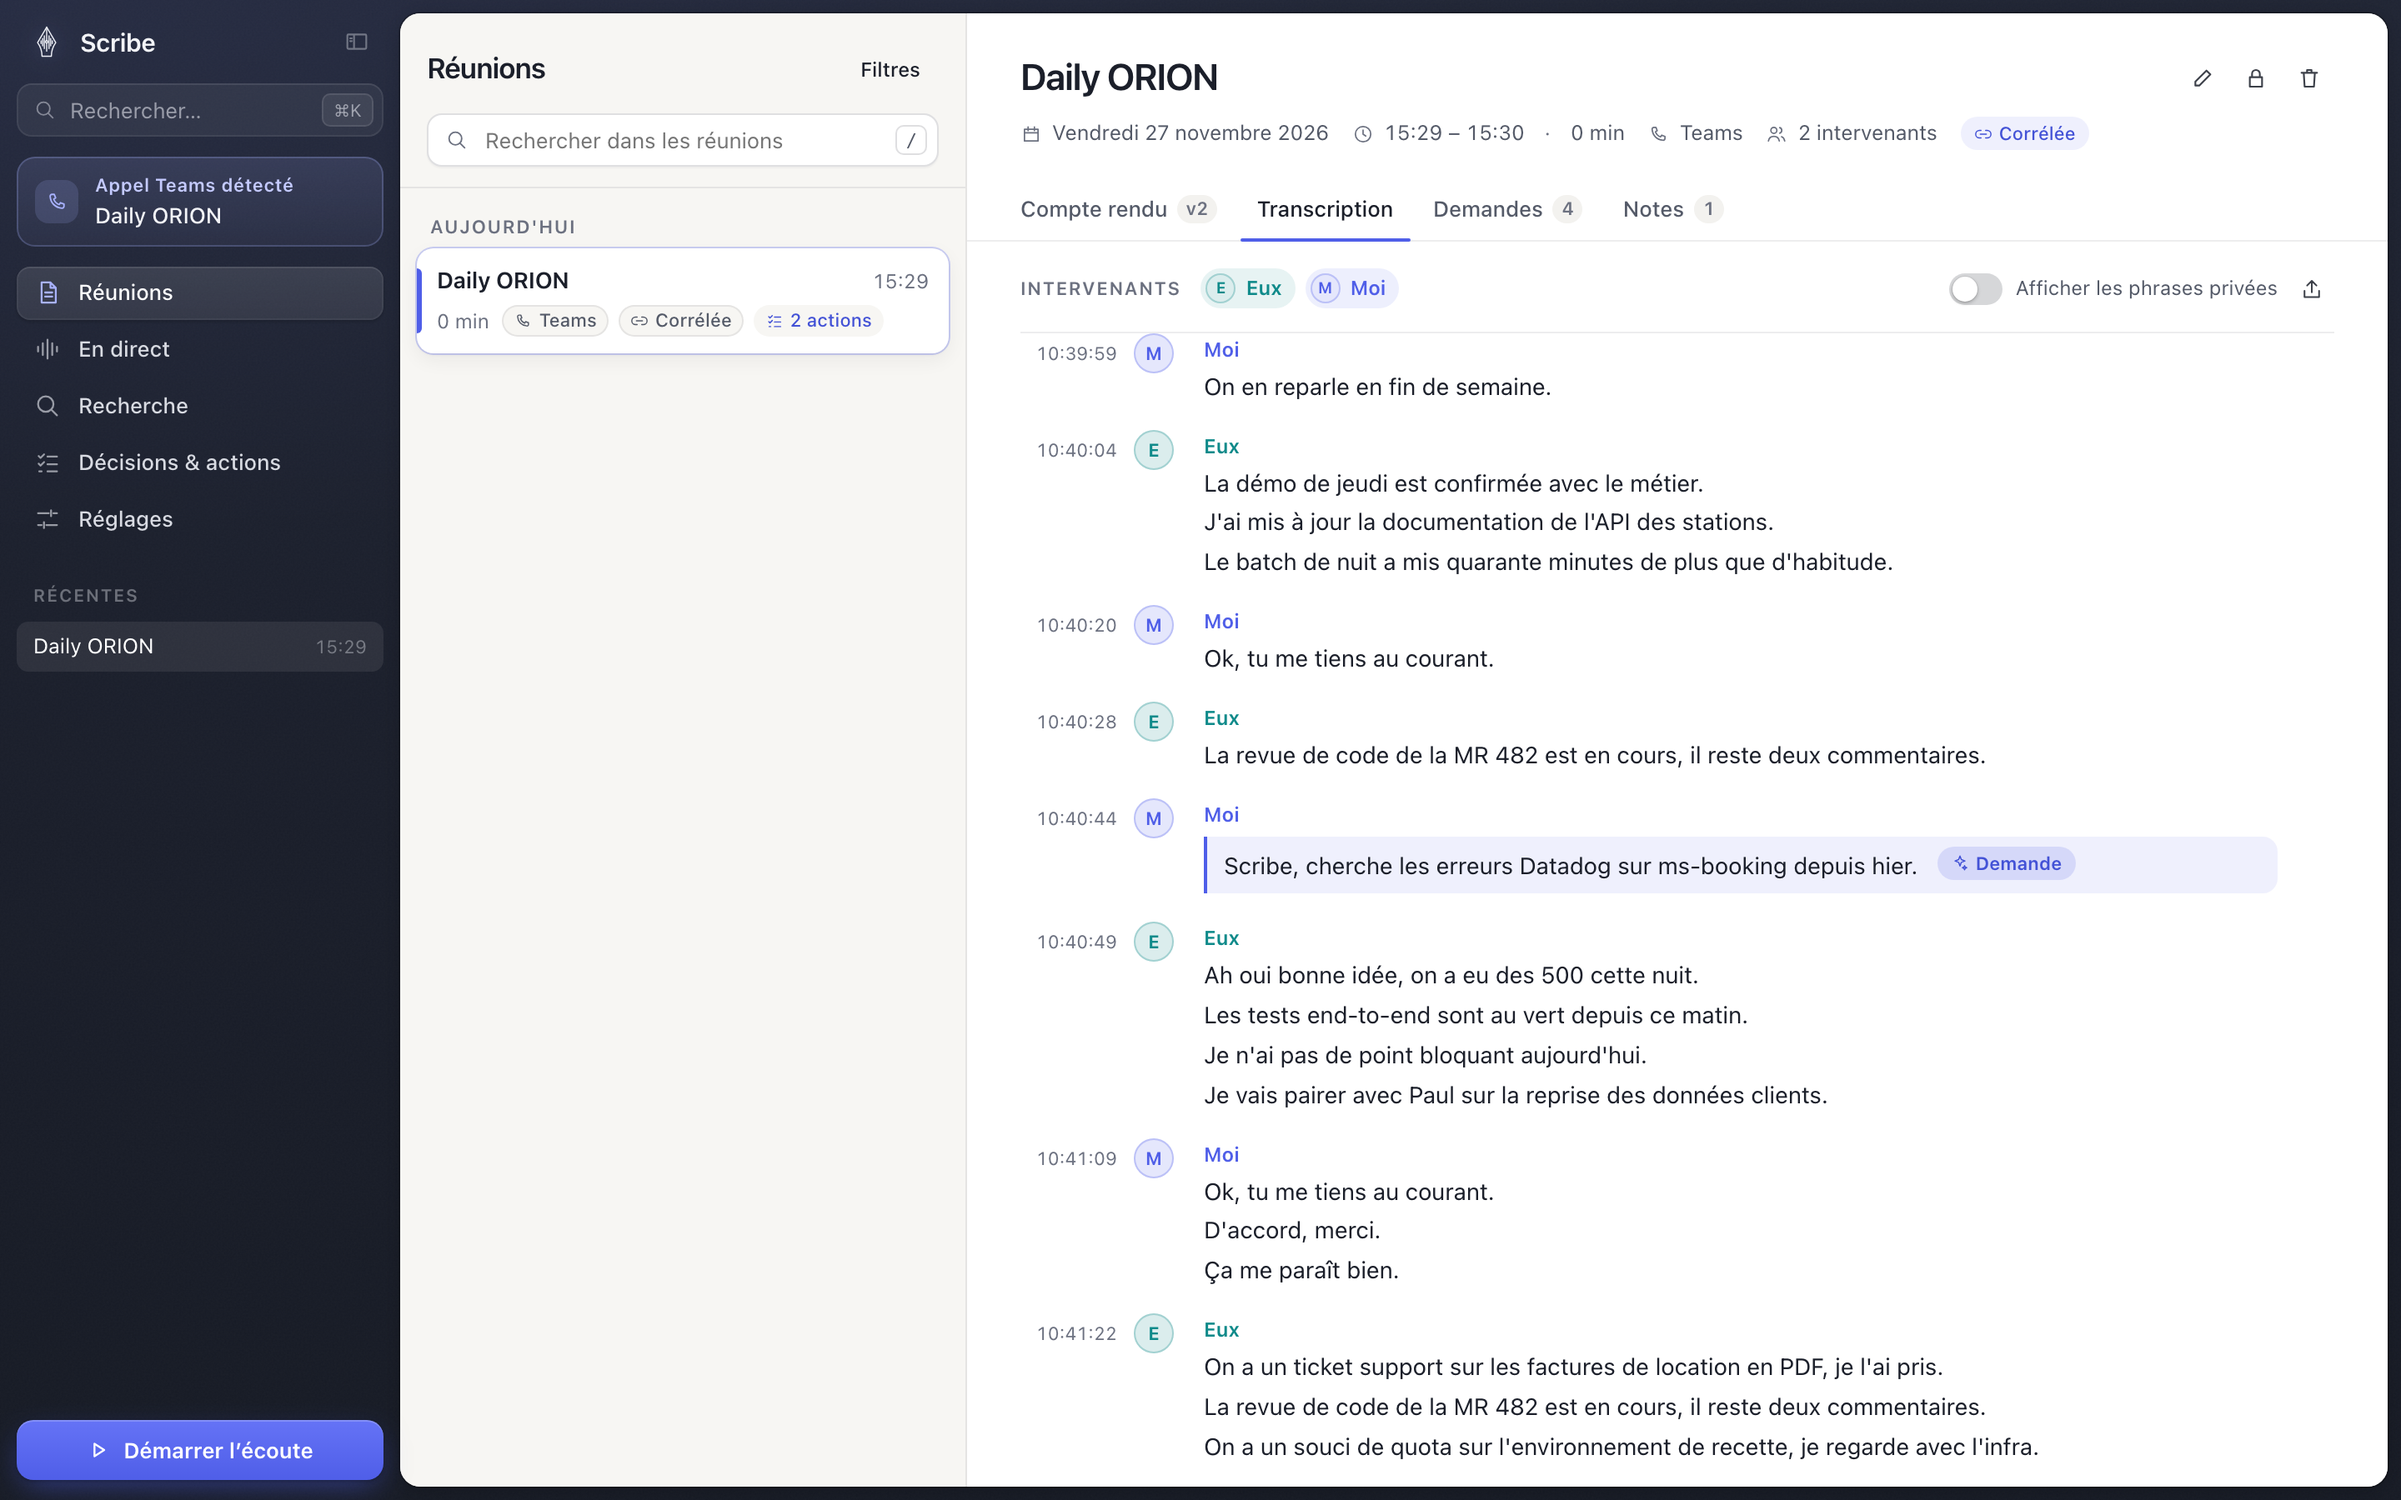
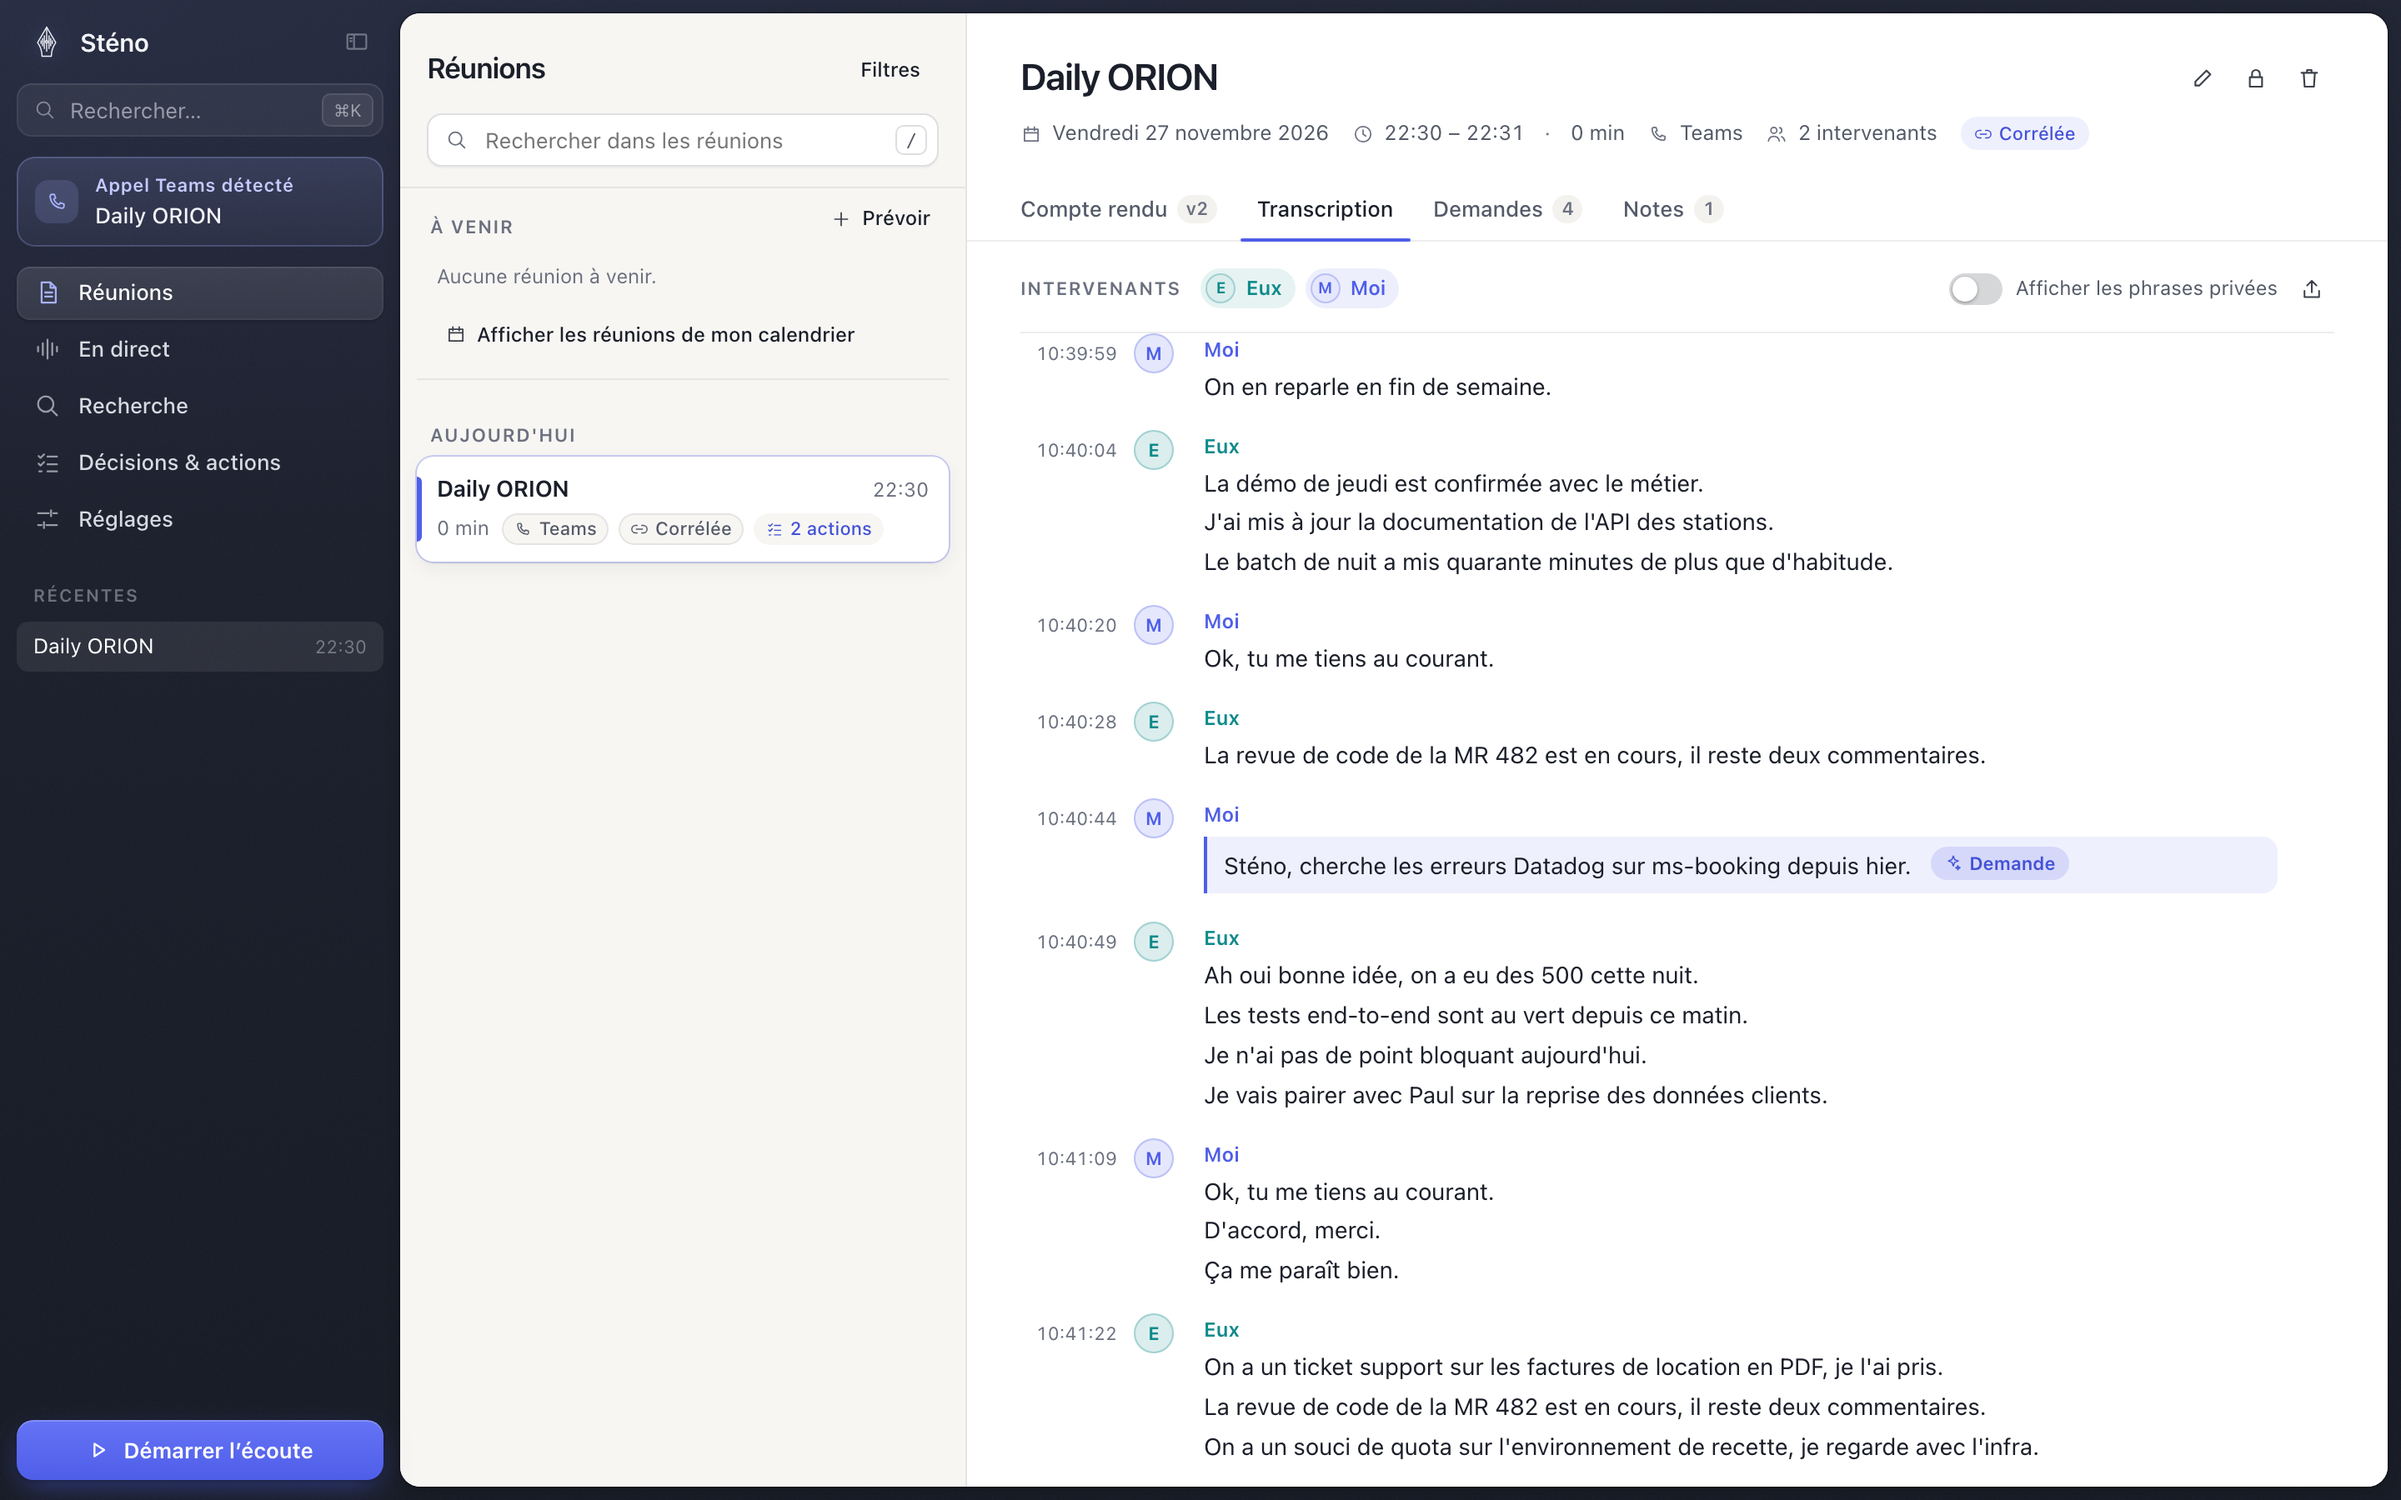
Regenerate screenshots with the Sténo name
The documentation screenshots still showed the former app name. The
voice settings capture waited for rejected variants, which the new wake
word does not produce: wait for the generation answer instead and keep
the wake word field in view.

Changed region(s): [[0.5312, 0.56, 0.875, 0.5911], [0.1562, 0.1244, 0.3438, 0.2489], [0.1562, 0.28, 0.25, 0.3422]]

diff --git a/app/ui/e2e/captures/captures.spec.ts b/app/ui/e2e/captures/captures.spec.ts
@@ -124,9 +124,13 @@ test('captures', async ({ page, browser }) => {
   await shot(page, 'actions');
 
   await go(page, '/settings?section=voice');
+  // "Sténo" yields no rejected variant: wait for the generation answer instead.
+  const generated = page.waitForResponse((r) => r.url().includes('/api/invoke/generate_variants'));
   await page.getByRole('button', { name: 'Générer les variantes' }).click();
-  await expect(page.locator('.rejected')).toBeVisible();
+  await generated;
+  await page.waitForTimeout(300);
   await page.locator('#wake').blur();
+  await page.locator('#wake').evaluate((el) => el.scrollIntoView({ block: 'center' }));
   await shot(page, 'reglages-voix');
 
   // Réglages → Audio & transcription : carte « Micro » (périphériques du simulateur), puis
